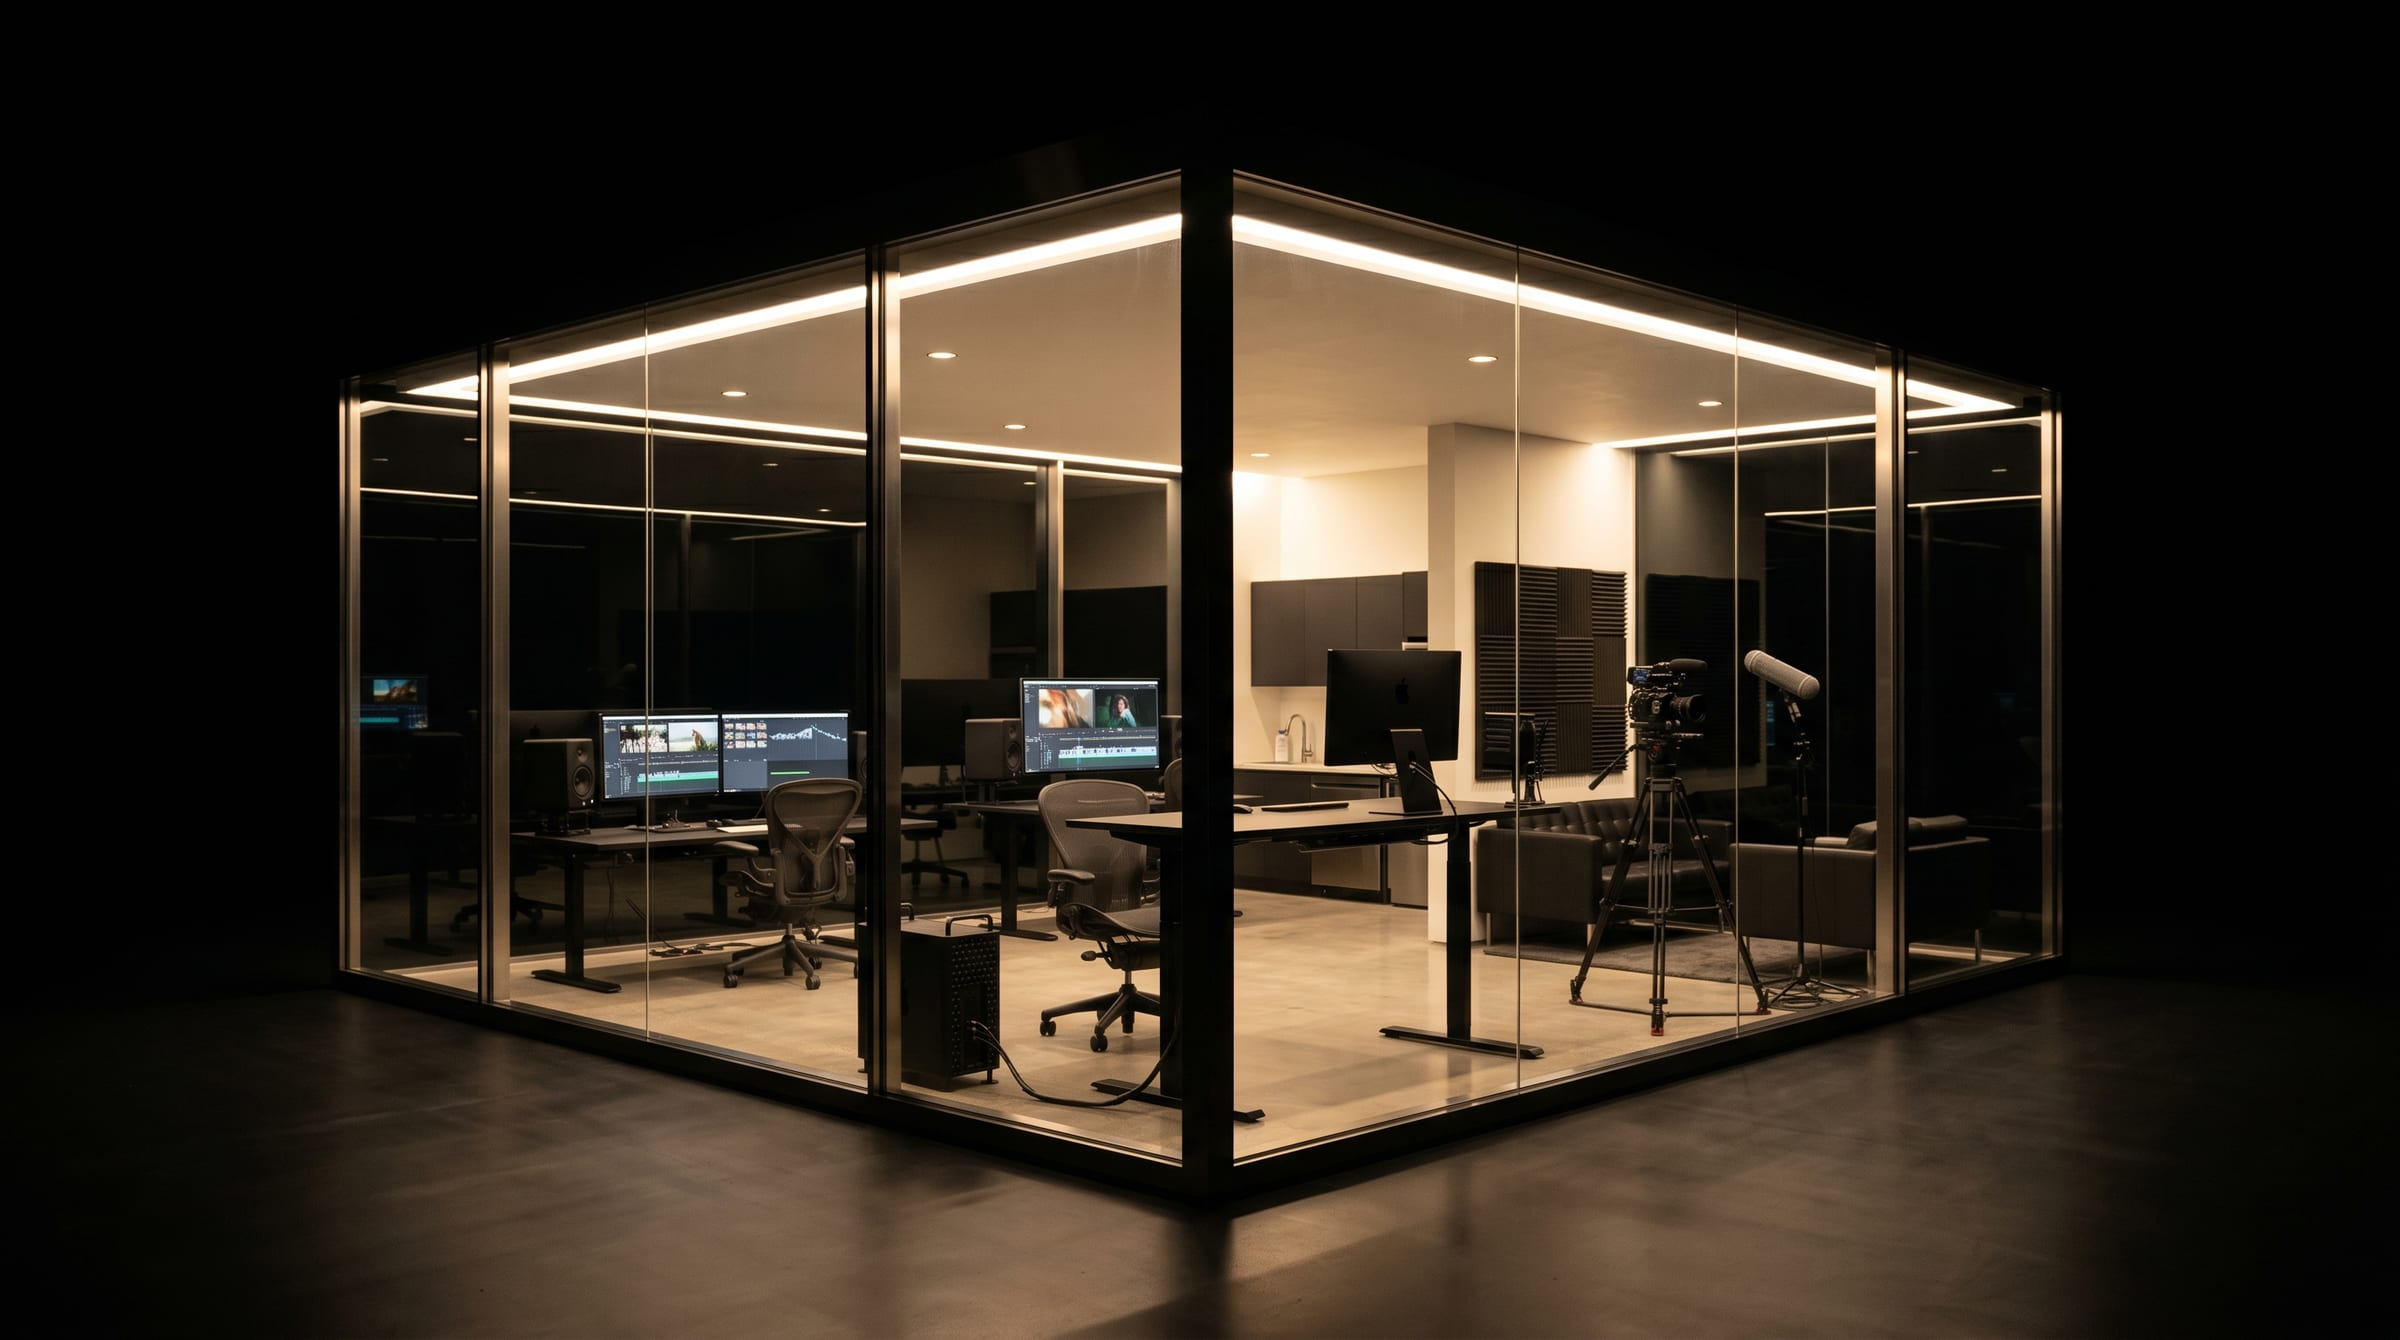
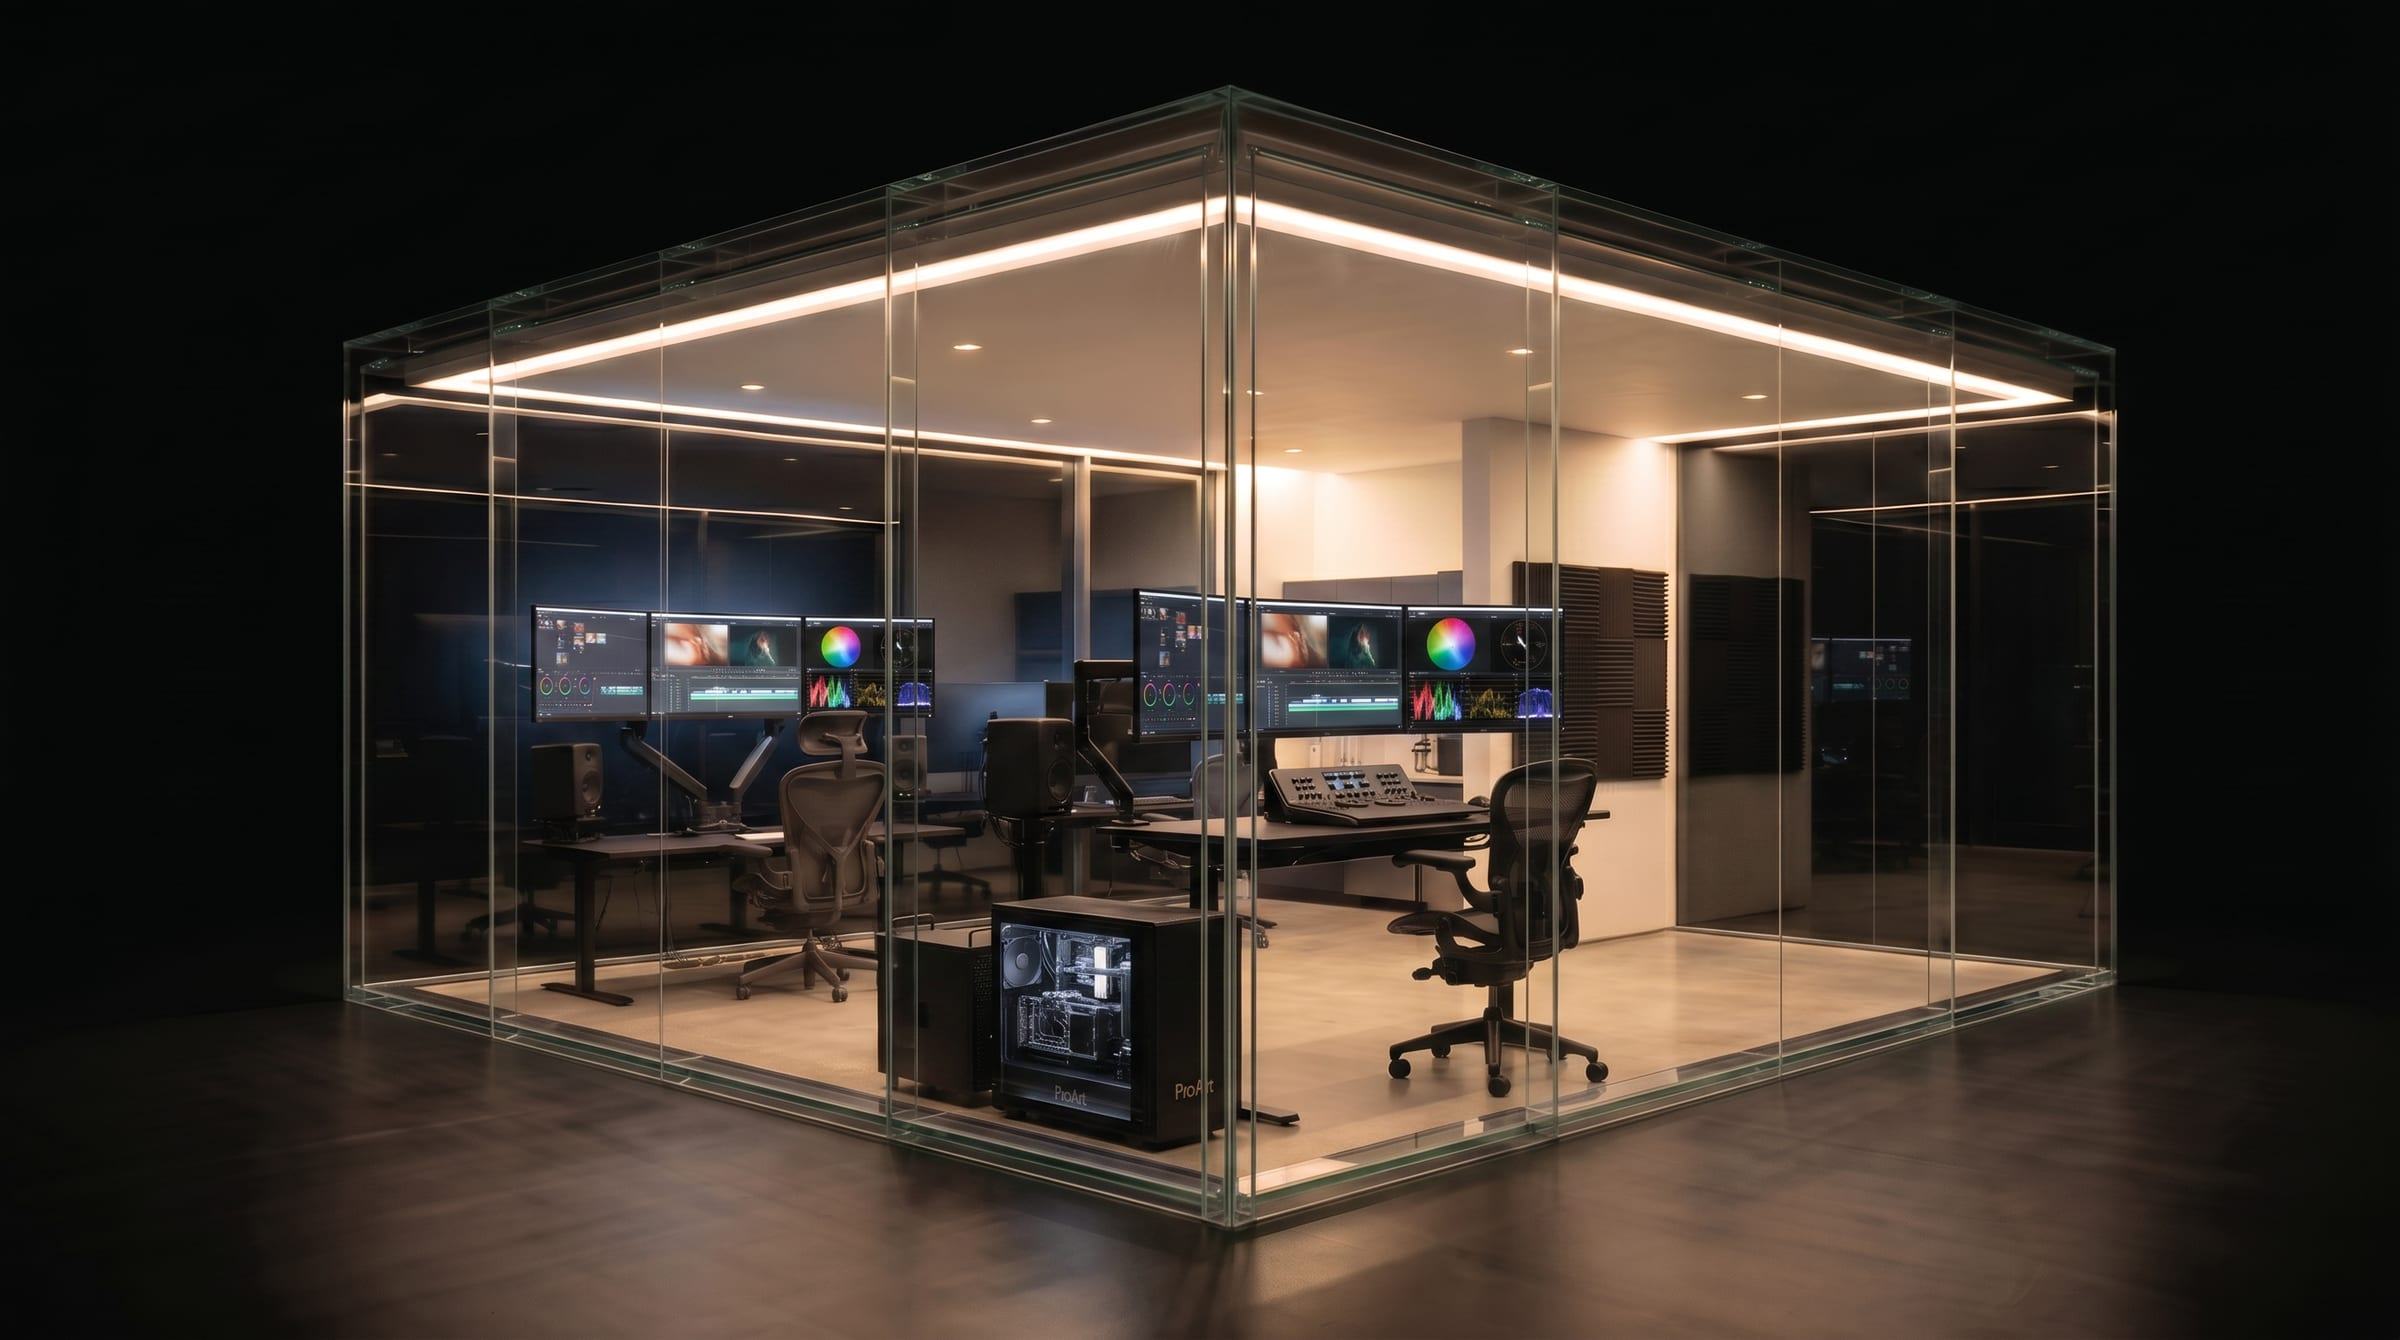
Remove preloader, add hover-shine effects, update images
- Delete preloader overlay/counter (page renders immediately on load)
- Add shine-sweep hover effect to buttons and cards, on top of the
  existing step-card border/glow reveal
- Capitalize logo wordmark to "CalvinVisuals" everywhere
- Replace hero and founder photos with updated shots

diff --git a/src/LandingPage.tsx b/src/LandingPage.tsx
@@ -6,7 +6,6 @@ import contentImg from "./assets/pillar-content.jpg";
 import umsatzImg from "./assets/pillar-umsatz.jpg";
 import { gsap, ScrollTrigger, DURATION, EASE, prefersReducedMotion } from "./gsap-config";
 import { useLenis } from "./useLenis";
-import Preloader from "./Preloader";
 
 const CALENDLY_URL = "#";
 
@@ -58,7 +57,7 @@ const STEPS = [
 function LogoLockup() {
   return (
     <span className="cv-logo">
-      calvinvisuals
+      CalvinVisuals
       <span className="cv-logo-bars" aria-hidden="true">
         <i /> <i /> <i />
       </span>
@@ -114,6 +113,7 @@ export default function LandingPage() {
         borderColor: STEP_BORDER_REST,
         boxShadow: STEP_GLOW_REST,
         scale: 1,
+        y: 0,
       });
 
       if (steps.length) {
@@ -149,13 +149,18 @@ export default function LandingPage() {
       onLeave: () => void;
     }> = [];
 
-    if (!prefersReducedMotion()) {
+    const canHover =
+      typeof window !== "undefined" &&
+      window.matchMedia("(hover: hover) and (pointer: fine)").matches;
+
+    if (!prefersReducedMotion() && canHover) {
       stepEls.forEach((step) => {
         const onEnter = () => {
           gsap.to(step, {
             borderColor: STEP_BORDER_ACTIVE,
             boxShadow: STEP_GLOW_ACTIVE,
             scale: 1.03,
+            y: -4,
             duration: DURATION.fast,
             ease: "power2.out",
           });
@@ -166,6 +171,7 @@ export default function LandingPage() {
             borderColor: revealed ? STEP_BORDER_ACTIVE : STEP_BORDER_REST,
             boxShadow: revealed ? STEP_GLOW_ACTIVE : STEP_GLOW_REST,
             scale: revealed ? 1.03 : 1,
+            y: 0,
             duration: DURATION.fast,
             ease: "power2.out",
           });
@@ -188,8 +194,6 @@ export default function LandingPage() {
   return (
     <div className="cv-root" ref={rootRef}>
       <style>{css}</style>
-
-      <Preloader onComplete={() => ScrollTrigger.refresh()} />
 
       {/* ── Navigation ─────────────────────────────── */}
       <header className="cv-nav">
@@ -361,6 +365,11 @@ const css = `
   --shadow-lg: rgba(0,0,0,0.15) 0px 4px 20px 0px;
   --dur-fast: 0.3s;
   --ease: cubic-bezier(0.65, 0, 0.35, 1);
+  --ease-out: cubic-bezier(0.25, 0.46, 0.45, 0.94);
+  --dur-lift-btn: 0.25s;
+  --dur-lift-card: 0.3s;
+  --dur-shine-btn: 0.7s;
+  --dur-shine-card: 1s;
 
   background: var(--void);
   color: var(--chalk);
@@ -371,19 +380,6 @@ const css = `
   position: relative;
 }
 .cv-root * { box-sizing: border-box; margin: 0; }
-
-/* ── Preloader ── */
-.cv-preloader {
-  position: fixed; inset: 0; z-index: 200;
-  background: var(--void);
-  display: flex; align-items: center; justify-content: center;
-}
-.cv-preloader-count {
-  font-family: var(--serif); font-weight: 500;
-  font-size: clamp(32px, 6vw, 56px);
-  letter-spacing: -0.03em; color: var(--chalk);
-  font-variant-numeric: tabular-nums;
-}
 
 /* ── Typografie ── */
 .cv-display {
@@ -424,19 +420,36 @@ const css = `
 
 /* ── Buttons ── */
 .cv-btn {
+  position: relative; overflow: hidden;
   display: inline-flex; align-items: center; gap: 8px;
   border-radius: 9999px; padding: 16px 24px;
   font-family: var(--sans); font-size: 15px; font-weight: 500;
   letter-spacing: -0.02em; text-decoration: none; white-space: nowrap;
-  transition: transform var(--dur-fast) var(--ease), background var(--dur-fast) var(--ease), color var(--dur-fast) var(--ease);
+  will-change: transform;
+  transition: transform var(--dur-lift-btn) var(--ease-out), background var(--dur-fast) var(--ease), color var(--dur-fast) var(--ease);
 }
-.cv-btn:hover { transform: translateY(-1px); }
+.cv-btn::before {
+  content: "";
+  position: absolute; inset: 0; z-index: -1;
+  background: linear-gradient(115deg, transparent 40%, rgba(255,255,255,0.28) 50%, transparent 60%);
+  transform: translateX(-150%);
+  transition: transform var(--dur-shine-btn) var(--ease-out);
+  pointer-events: none;
+}
 .cv-btn:focus-visible { outline: 2px solid var(--chalk); outline-offset: 3px; }
 .cv-btn--primary { background: var(--chalk); color: var(--void); box-shadow: var(--shadow-lg); }
+.cv-btn--primary::before { background: linear-gradient(115deg, transparent 40%, rgba(0,0,0,0.08) 50%, transparent 60%); }
 .cv-btn--primary:hover { background: var(--linen); }
 .cv-btn--ghost { background: transparent; color: var(--chalk); border: 1px solid rgba(255,255,255,0.5); }
 .cv-btn--ghost:hover { border-color: var(--chalk); }
 .cv-btn--dark { background: var(--void); color: var(--linen); box-shadow: var(--shadow-lg); }
+
+@media (hover: hover) and (pointer: fine) and (prefers-reduced-motion: no-preference) {
+  .cv-btn:hover { transform: translateY(-2px) scale(1.02); }
+  .cv-btn:hover::before { transform: translateX(150%); }
+}
+
+.cv-btn:active { transform: scale(0.98); }
 
 /* ── Logo ── */
 .cv-logo {
@@ -498,6 +511,16 @@ const css = `
   box-shadow: var(--shadow-xl);
   background-size: cover; background-position: center;
   overflow: hidden;
+  will-change: transform;
+  transition: transform var(--dur-lift-card) var(--ease-out);
+}
+.cv-card::before {
+  content: "";
+  position: absolute; inset: 0; z-index: 1;
+  background: linear-gradient(115deg, transparent 25%, rgba(255,255,255,0.18) 50%, transparent 75%);
+  transform: translateX(-150%);
+  transition: transform var(--dur-shine-card) var(--ease-out);
+  pointer-events: none;
 }
 .cv-card--image {
   filter: saturate(0.55);
@@ -523,6 +546,7 @@ const css = `
   gap: 20px; margin-top: 48px;
 }
 .cv-step {
+  position: relative; overflow: hidden;
   display: flex; flex-direction: column; gap: 20px;
   padding: 32px 24px;
   border-radius: 22px;
@@ -532,6 +556,14 @@ const css = `
   border: 1px solid rgba(255,255,255,0.14);
   transform-origin: center center;
   will-change: transform, border-color, box-shadow;
+}
+.cv-step::before {
+  content: "";
+  position: absolute; inset: 0; z-index: -1;
+  background: linear-gradient(115deg, transparent 25%, rgba(255,255,255,0.18) 50%, transparent 75%);
+  transform: translateX(-150%);
+  transition: transform var(--dur-shine-card) var(--ease-out);
+  pointer-events: none;
 }
 .cv-step-nr {
   font-family: var(--serif); font-size: 32px; line-height: 1;
@@ -545,6 +577,13 @@ const css = `
     -webkit-backdrop-filter: blur(8px);
     background: rgba(255,255,255,0.06);
   }
+}
+
+/* ── Karten-Hover: Shine + Lift (nur echte Hover-Geräte, respektiert reduced-motion) ── */
+@media (hover: hover) and (pointer: fine) and (prefers-reduced-motion: no-preference) {
+  .cv-card:hover { transform: translateY(-4px) scale(1.02); }
+  .cv-card:hover::before { transform: translateX(150%); }
+  .cv-step:hover::before { transform: translateX(150%); }
 }
 
 /* ── Founder ── */
